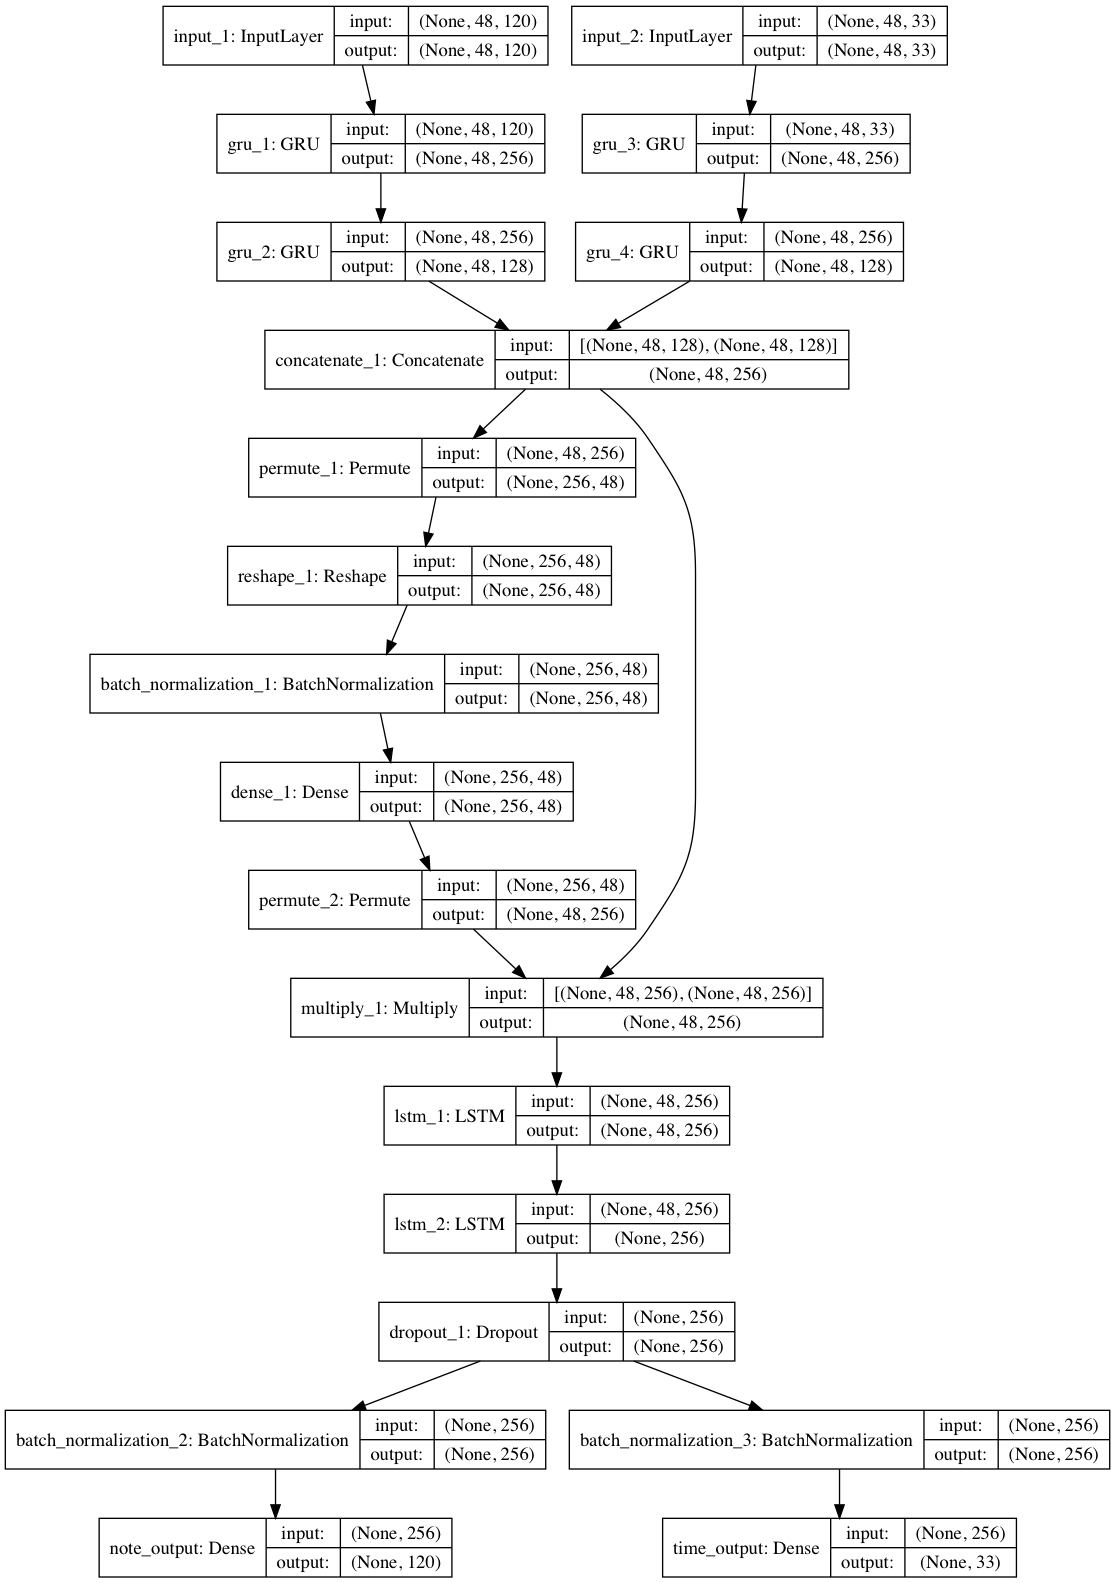
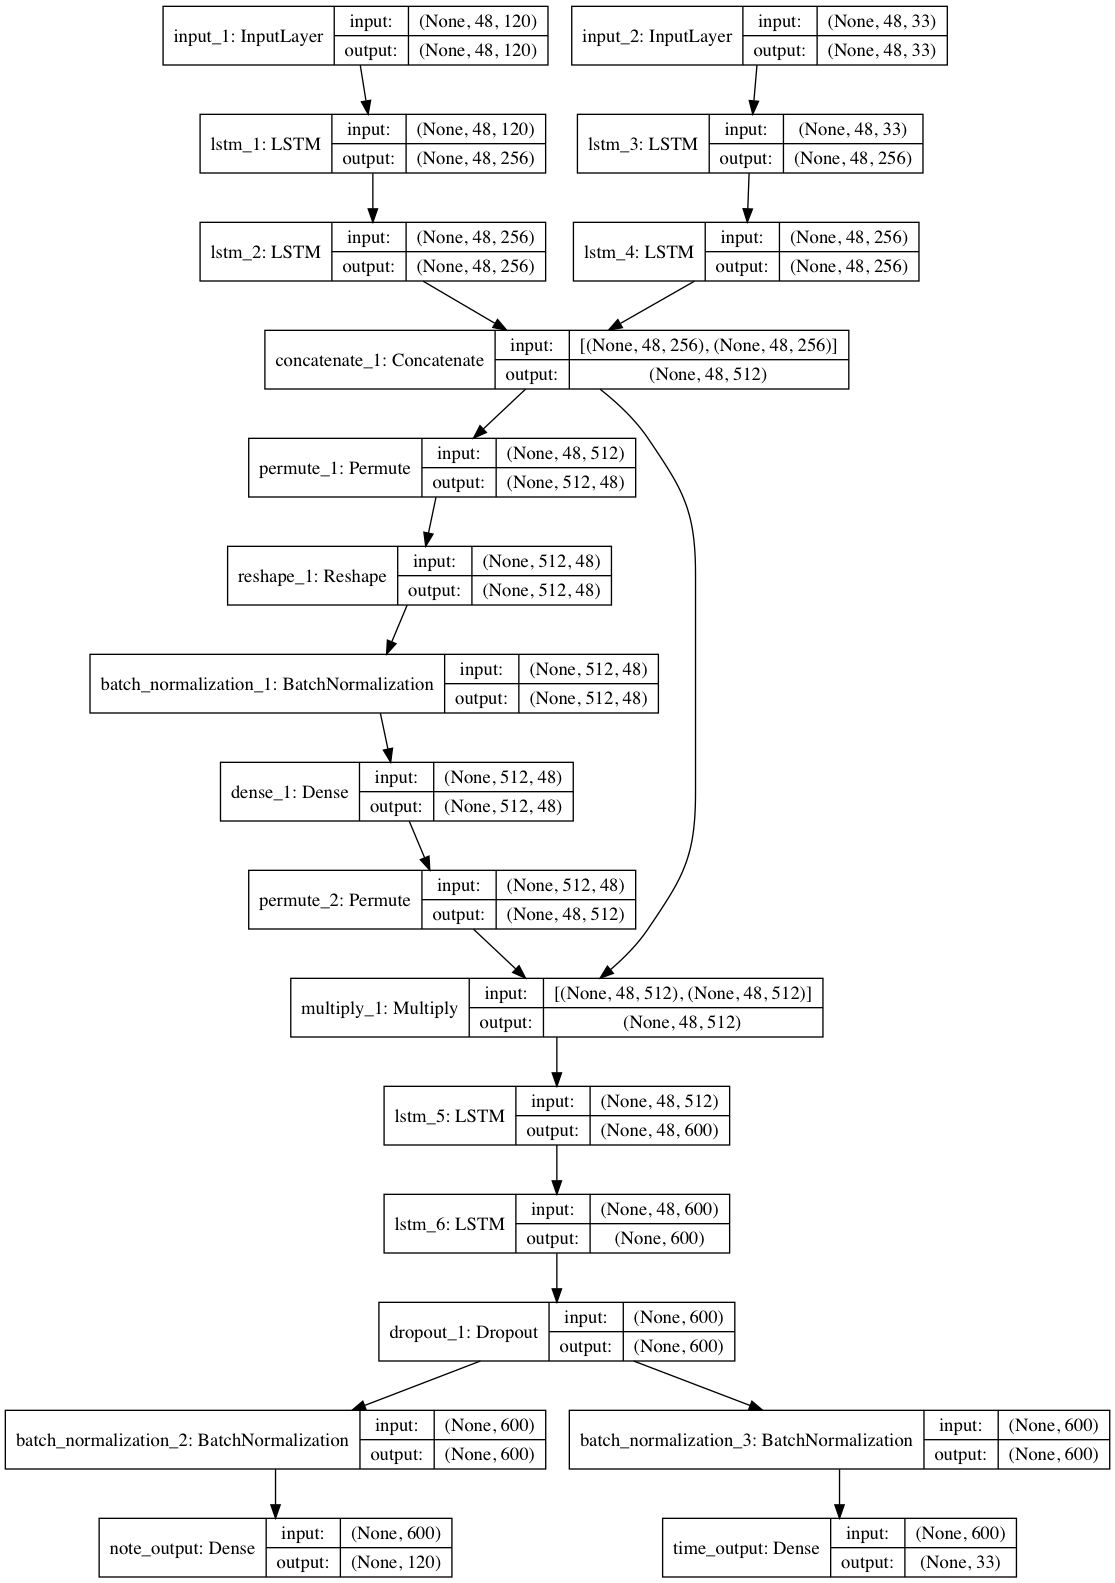
larger net

diff --git a/multiple_instruments/train.py b/multiple_instruments/train.py
@@ -2,7 +2,7 @@ from __future__ import print_function
 import os
 from keras.models import Sequential, load_model, Model
 from keras.layers import Dense, Activation, Dropout, Input, Flatten, Conv1D
-from keras.layers import LSTM, GRU, BatchNormalization, RepeatVector, TimeDistributed
+from keras.layers import LSTM, LSTM, BatchNormalization, RepeatVector, TimeDistributed
 from keras.layers.merge import concatenate
 from keras.optimizers import RMSprop
 from keras.utils.io_utils import HDF5Matrix
@@ -115,21 +115,21 @@ def generator(path_name, step_size, batch_size, train_what=''):
 
 def main():
     # network:
-    # build the model: stacked GRUs
+    # build the model: stacked LSTMs
     print('Build model...')
     # network:
     noteInput  = Input(shape=(segLen, vecLen))
-    noteEncode = GRU(hidden_note, return_sequences=True, dropout=drop_rate, trainable=train_note)(noteInput)
-    noteEncode = GRU(128, return_sequences=True, dropout=drop_rate, trainable=train_note)(noteEncode)
+    noteEncode = LSTM(hidden_note, return_sequences=True, dropout=drop_rate, trainable=train_note)(noteInput)
+    noteEncode = LSTM(hidden_note, return_sequences=True, dropout=drop_rate, trainable=train_note)(noteEncode)
 
     deltaInput = Input(shape=(segLen, maxdelta))
-    deltaEncode = GRU(hidden_delta, return_sequences=True, dropout=drop_rate, trainable=train_delta)(deltaInput)
-    deltaEncode = GRU(128, return_sequences=True, dropout=drop_rate, trainable=train_delta)(deltaEncode)
+    deltaEncode = LSTM(hidden_delta, return_sequences=True, dropout=drop_rate, trainable=train_delta)(deltaInput)
+    deltaEncode = LSTM(hidden_delta, return_sequences=True, dropout=drop_rate, trainable=train_delta)(deltaEncode)
 
     codec = concatenate([noteEncode, deltaEncode], axis=-1) ## return last state
-    codec = SoftAttentionBlock(codec, segLen, 256, trainable=train_att)
-    codec = LSTM(256, return_sequences=True, dropout=drop_rate, activation='softsign', trainable=train_lstm)(codec)
-    codec = LSTM(256, return_sequences=False, dropout=drop_rate, activation='softsign', trainable=train_lstm)(codec)
+    codec = SoftAttentionBlock(codec, segLen, hidden_note+hidden_delta, trainable=train_att)
+    codec = LSTM(600, return_sequences=True, dropout=drop_rate, activation='softsign', trainable=train_lstm)(codec)
+    codec = LSTM(600, return_sequences=False, dropout=drop_rate, activation='softsign', trainable=train_lstm)(codec)
     encoded = Dropout(drop_rate)(codec)
 
     fc_notes = BatchNormalization(trainable=train_note)(encoded)

diff --git a/multiple_instruments/load.py b/multiple_instruments/load.py
@@ -6,7 +6,7 @@ config.gpu_options.allow_growth = True
 session = tf.Session(config=config)
 from keras.models import Sequential, load_model, Model
 from keras.layers import Dense, Activation, Dropout, Input, Flatten, Conv1D
-from keras.layers import LSTM, GRU, BatchNormalization, RepeatVector, TimeDistributed
+from keras.layers import LSTM, LSTM, BatchNormalization, RepeatVector, TimeDistributed
 from keras.layers.merge import concatenate
 from keras.optimizers import RMSprop
 from keras.utils.io_utils import HDF5Matrix
@@ -35,24 +35,24 @@ drop_rate=0.2 ## for powerful computer
 
 K.set_floatx(compute_precision);
 
-# build the model: stacked GRUs
+# build the model: stacked LSTMs
 print('Build model...')
 # network:
 with tf.device('/gpu:0'):
     noteInput  = Input(shape=(segLen, vecLen))
-    noteEncode = GRU(hidden_note, return_sequences=True, dropout=drop_rate)(noteInput)
-    noteEncode = GRU(128, return_sequences=True, dropout=drop_rate)(noteEncode)
+    noteEncode = LSTM(hidden_note, return_sequences=True, dropout=drop_rate)(noteInput)
+    noteEncode = LSTM(hidden_note, return_sequences=True, dropout=drop_rate)(noteEncode)
 
 with tf.device('/gpu:1'):
     deltaInput = Input(shape=(segLen, maxdelta))
-    deltaEncode = GRU(hidden_delta, return_sequences=True, dropout=drop_rate)(deltaInput)
-    deltaEncode = GRU(128, return_sequences=True, dropout=drop_rate)(deltaEncode)
+    deltaEncode = LSTM(hidden_delta, return_sequences=True, dropout=drop_rate)(deltaInput)
+    deltaEncode = LSTM(hidden_delta, return_sequences=True, dropout=drop_rate)(deltaEncode)
 
 with tf.device('/gpu:3'):
-    codec = concatenate([noteEncode, deltaEncode], axis=-1) ## return last state
-    codec = SoftAttentionBlock(codec, segLen, 256)
-    codec = LSTM(256, return_sequences=True, dropout=drop_rate, activation='softsign')(codec)
-    codec = LSTM(256, return_sequences=False, dropout=drop_rate, activation='softsign')(codec)
+    codec = concatenate([noteEncode, deltaEncode], axis=-1)
+    codec = SoftAttentionBlock(codec, segLen, hidden_note+hidden_delta)
+    codec = LSTM(600, return_sequences=True, dropout=drop_rate, activation='softsign')(codec)
+    codec = LSTM(600, return_sequences=False, dropout=drop_rate, activation='softsign')(codec)
     encoded = Dropout(drop_rate)(codec)
 
     fc_notes = BatchNormalization()(encoded)

diff --git a/multiple_instruments/summary.py b/multiple_instruments/summary.py
@@ -6,7 +6,7 @@ config.gpu_options.allow_growth = True
 session = tf.Session(config=config)
 from keras.models import Sequential, load_model, Model
 from keras.layers import Dense, Activation, Dropout, Input, Flatten, Conv1D
-from keras.layers import LSTM, GRU, BatchNormalization, RepeatVector, TimeDistributed
+from keras.layers import LSTM, LSTM, BatchNormalization, RepeatVector, TimeDistributed
 from keras.layers.merge import concatenate
 from keras.optimizers import RMSprop
 from keras.utils.io_utils import HDF5Matrix
@@ -35,24 +35,24 @@ drop_rate=0.2 ## for powerful computer
 
 K.set_floatx(compute_precision);
 
-# build the model: stacked GRUs
+# build the model: stacked LSTMs
 print('Build model...')
 # network:
 with tf.device('/gpu:0'):
     noteInput  = Input(shape=(segLen, vecLen))
-    noteEncode = GRU(hidden_note, return_sequences=True, dropout=drop_rate)(noteInput)
-    noteEncode = GRU(128, return_sequences=True, dropout=drop_rate)(noteEncode)
+    noteEncode = LSTM(hidden_note, return_sequences=True, dropout=drop_rate)(noteInput)
+    noteEncode = LSTM(hidden_note, return_sequences=True, dropout=drop_rate)(noteEncode)
 
 with tf.device('/gpu:1'):
     deltaInput = Input(shape=(segLen, maxdelta))
-    deltaEncode = GRU(hidden_delta, return_sequences=True, dropout=drop_rate)(deltaInput)
-    deltaEncode = GRU(128, return_sequences=True, dropout=drop_rate)(deltaEncode)
+    deltaEncode = LSTM(hidden_delta, return_sequences=True, dropout=drop_rate)(deltaInput)
+    deltaEncode = LSTM(hidden_delta, return_sequences=True, dropout=drop_rate)(deltaEncode)
 
 with tf.device('/gpu:3'):
-    codec = concatenate([noteEncode, deltaEncode], axis=-1) ## return last state
-    codec = SoftAttentionBlock(codec, segLen, 256)
-    codec = LSTM(256, return_sequences=True, dropout=drop_rate, activation='softsign')(codec)
-    codec = LSTM(256, return_sequences=False, dropout=drop_rate, activation='softsign')(codec)
+    codec = concatenate([noteEncode, deltaEncode], axis=-1)
+    codec = SoftAttentionBlock(codec, segLen, hidden_note+hidden_delta)
+    codec = LSTM(600, return_sequences=True, dropout=drop_rate, activation='softsign')(codec)
+    codec = LSTM(600, return_sequences=False, dropout=drop_rate, activation='softsign')(codec)
     encoded = Dropout(drop_rate)(codec)
 
     fc_notes = BatchNormalization()(encoded)
